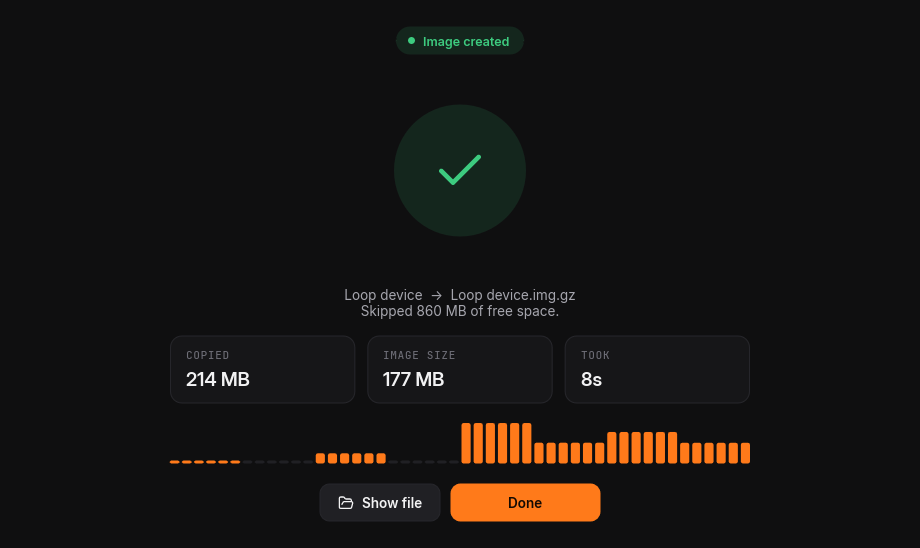
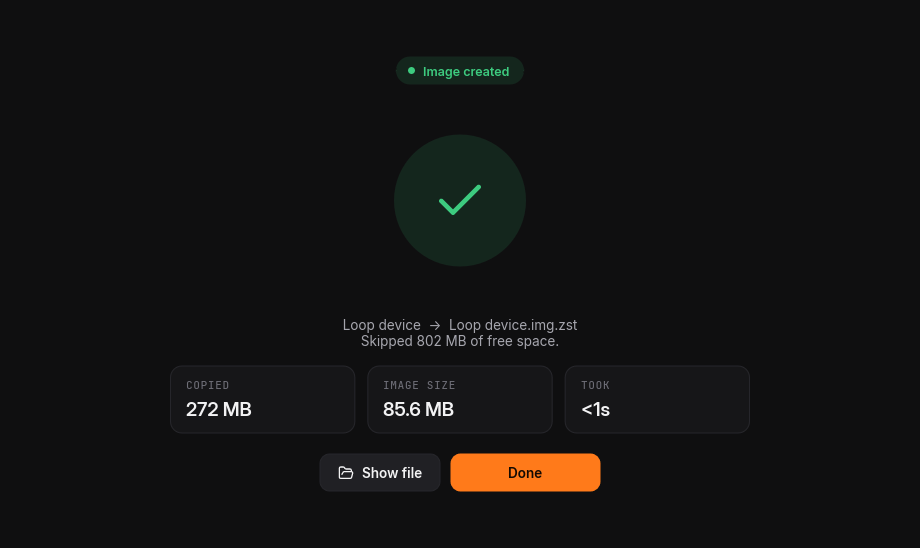
README: how to run it, current screenshots, build script status

diff --git a/README.md b/README.md
@@ -6,9 +6,16 @@ A simple, good-looking front end for `dd`, shipped as one self-contained file fo
 Windows and macOS. Flash an image to a USB stick, back up a drive, clone one drive to
 another, or wipe one, and see exactly which `dd` command runs.
 
-![Choosing an image and a drive](docs/setup.png)
-![Choosing how to copy a drive](docs/copy-mode.png)
-![Copying](docs/progress.png)
+<table>
+  <tr>
+    <td><img src="docs/setup.png" alt="Choosing an image and a drive"></td>
+    <td><img src="docs/copy-mode.png" alt="Choosing how to copy a drive: smart copy or sector by sector"></td>
+  </tr>
+  <tr>
+    <td><img src="docs/progress.png" alt="Copying, with speed and time left"></td>
+    <td><img src="docs/done.png" alt="A smart backup finished: 272 MB copied into an 85.6 MB image"></td>
+  </tr>
+</table>
 
 ## What it does
 
@@ -40,6 +47,25 @@ another, or wipe one, and see exactly which `dd` command runs.
   - Drives are unmounted (on Windows, locked) while they're copied, and mounted again afterwards.
 - **One file.** `dd` from [uutils coreutils](https://github.com/uutils/coreutils) (MIT,
   GNU-compatible) is compiled in: `dd-gui dd if=… of=…` works like `dd` from a terminal.
+
+## Run
+
+There are no downloads yet: build DD-GUI with the script for your OS (see [Build](#build)).
+Then:
+
+- **Linux:** run `dd-gui`, or `dd-gui some-image.iso` to start with that image chosen. It asks
+  for your password (polkit) only when a drive is involved. On first start it adds its icon
+  and a menu entry to `~/.local/share`; set `DD_GUI_NO_DESKTOP_INTEGRATION=1` to skip that.
+- **macOS:** open `DD-GUI.app`. The system password prompt appears when a drive is involved.
+- **Windows:** run `dd-gui.exe`. It asks for administrator rights when it starts.
+
+The same file also works from a terminal:
+
+| Command | Does |
+|---|---|
+| `dd-gui dd if=… of=…` | the bundled `dd`, like the real one |
+| `dd-gui drives` | lists the drives as JSON |
+| `dd-gui copy …` | the copier behind smart copies and image unpacking |
 
 ## Smart copy
 
@@ -127,15 +153,12 @@ like pacman's.
   a zip downloaded in a browser. Right-click it and choose Open, or run it from Terminal.
   A `git clone` doesn't have this problem.
 - **Building by hand:** `cargo build --release` works too, once the dependencies are there.
-- **Running it:**
-  - Linux: the binary only needs libc, fontconfig and freetype. X11, Wayland and OpenGL
-    are loaded at runtime if they're present, and a software renderer is built in. On start,
-    it copies its icons and a menu entry into `~/.local/share`, so menus, docks and the
-    Wayland taskbar show it with its icon. Set `DD_GUI_NO_DESKTOP_INTEGRATION=1` to turn
-    that off.
-  - Windows: `dd-gui.exe` carries its icon, version info and an administrator manifest.
-    You can also cross-build it from Linux with mingw-w64:
-    `cargo build --release --target x86_64-pc-windows-gnu`.
+  `dd-gui.exe` can also be cross-built from Linux with mingw-w64:
+  `cargo build --release --target x86_64-pc-windows-gnu`.
+- **What the binary needs:**
+  - On Linux, only libc, fontconfig and freetype. X11, Wayland and OpenGL are loaded at
+    runtime if they're present, and a software renderer is built in.
+  - On Windows, `dd-gui.exe` carries its icon, version info and an administrator manifest.
 
 `.github/workflows/build.yml` builds and tests all three, and runs end-to-end tests with
 virtual disks (`ci/`). `packaging/README.md` covers the desktop entry, icons and app bundle.
@@ -159,6 +182,9 @@ dd-gui (window, runs as you)
 - **Windows:** the exe builds with its icon, version info and manifest. Its copier and dd paths
   pass under Wine. It hasn't run on a real Windows PC yet.
 - **macOS:** the code compiles, but it hasn't run on a real Mac yet.
+- **Build scripts:** `build.sh` is tested on Linux. `build.command` and `build.bat` were
+  checked with macOS's bash 3.2 and with PowerShell, using stand-ins for the macOS and
+  Windows tools, but haven't run on a real Mac or Windows PC yet.
 - **CI:** CI will run the Windows and macOS tests and the end-to-end scripts in `ci/` once
   GitHub Actions runs for the repository. So far it hasn't created any runs.
 
